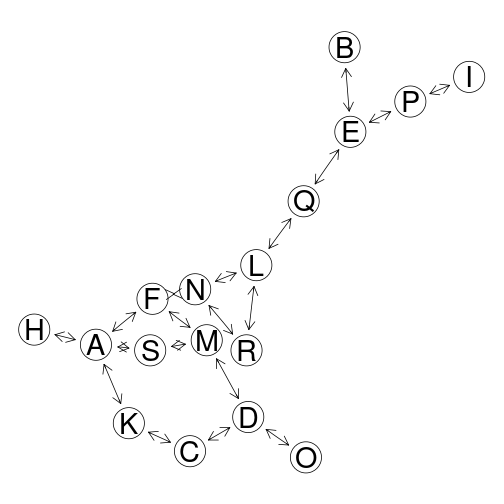
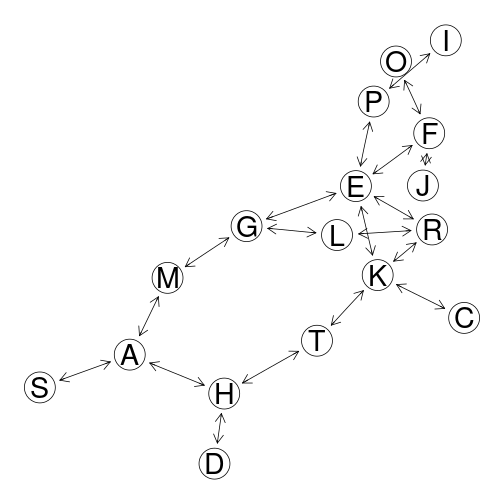
inst/

diff --git a/inst/Bioconductor/README.md b/inst/Bioconductor/README.md
@@ -4,6 +4,12 @@ This is the documentation example, based on Bioconductor 3.14.
 
 
 ```r
+library(sva)
+#> Loading required package: mgcv
+#> Loading required package: nlme
+#> This is mgcv 1.8-39. For overview type 'help("mgcv-package")'.
+#> Loading required package: genefilter
+#> Loading required package: BiocParallel
 library(bladderbatch)
 #> Loading required package: Biobase
 #> Loading required package: BiocGenerics
@@ -35,16 +41,40 @@ mod = model.matrix(~as.factor(cancer), data=pheno)
 
 # 1. parametric adjustment
 combat_edata1 = ComBat(dat=edata, batch=batch, mod=NULL, par.prior=TRUE, prior.plots=TRUE)
-#> Error in ComBat(dat = edata, batch = batch, mod = NULL, par.prior = TRUE, : could not find function "ComBat"
+#> Found5batches
+#> Adjusting for0covariate(s) or covariate level(s)
+#> Standardizing Data across genes
+#> Fitting L/S model and finding priors
+#> Finding parametric adjustments
+#> Adjusting the Data
+```
+
+![plot of chunk ComBat](figures/ComBat-1.png)
+
+```r
 
 # 2. non-parametric adjustment, mean-only version
 combat_edata2 = ComBat(dat=edata, batch=batch, mod=NULL, par.prior=FALSE, mean.only=TRUE)
-#> Error in ComBat(dat = edata, batch = batch, mod = NULL, par.prior = FALSE, : could not find function "ComBat"
+#> Using the 'mean only' version of ComBat
+#> Found5batches
+#> Adjusting for0covariate(s) or covariate level(s)
+#> Standardizing Data across genes
+#> Fitting L/S model and finding priors
+#> Finding nonparametric adjustments
+#> Adjusting the Data
 
 # 3. reference-batch version, with covariates
 combat_edata3 = ComBat(dat=edata, batch=batch, mod=mod, par.prior=TRUE, ref.batch=3, prior.plots=TRUE)
-#> Error in ComBat(dat = edata, batch = batch, mod = mod, par.prior = TRUE, : could not find function "ComBat"
+#> Using batch =3as a reference batch (this batch won't change)
+#> Found5batches
+#> Adjusting for2covariate(s) or covariate level(s)
+#> Standardizing Data across genes
+#> Fitting L/S model and finding priors
+#> Finding parametric adjustments
+#> Adjusting the Data
 ```
+
+![plot of chunk ComBat](figures/ComBat-2.png)
 
 ## Differential expression
 
@@ -109,13 +139,13 @@ estimated.pcor <- cor2pcor( cor(m.sim) )
 
 # A comparison of estimated and true values
 sum((true.pcor-estimated.pcor)^2)
-#> [1] 485.3661
+#> [1] 1074.933
 
 # A slightly better estimate ...
 estimated.pcor.2 <- ggm.estimate.pcor(m.sim)
-#> Estimating optimal shrinkage intensity lambda (correlation matrix): 0.4146
+#> Estimating optimal shrinkage intensity lambda (correlation matrix): 0.354
 sum((true.pcor-estimated.pcor.2)^2)
-#> [1] 9.409779
+#> [1] 9.716128
 
 ## ecoli data 
 data(ecoli)
@@ -410,17 +440,17 @@ num.nodes(gr)
 #> [1] 20
 edge.info(gr)
 #> $weight
-#>      A~S      A~K      A~F      A~H      B~E      C~D      C~K      D~O 
-#> -0.15336  0.26614 -0.39258  0.61266  0.64742  0.07149 -0.70853  0.44840 
-#>      D~M      E~P      E~Q      F~N      F~M      I~P      L~Q      L~R 
-#> -0.55883  0.35639 -0.46159  0.28920 -0.31394  0.75689 -0.17690 -0.36683 
-#>      L~N      M~S      N~R 
-#>  0.44811  0.42591 -0.45427 
+#>      A~S      A~H      A~M      C~K      D~H      E~K      E~G      E~P 
+#> -0.20723 -0.41069  0.59161  0.32481 -0.30811  0.21950  0.25362  0.29182 
+#>      E~F      E~R      F~J      F~O      G~L      G~M      H~T      I~P 
+#>  0.36377 -0.40016 -0.43237  0.65653 -0.13772  0.29308  0.63355 -0.35221 
+#>      K~R      K~T      L~R 
+#> -0.25565 -0.29900 -0.39885 
 #> 
 #> $dir
-#>    A~S    A~K    A~F    A~H    B~E    C~D    C~K    D~O    D~M    E~P    E~Q 
+#>    A~S    A~H    A~M    C~K    D~H    E~K    E~G    E~P    E~F    E~R    F~J 
 #> "none" "none" "none" "none" "none" "none" "none" "none" "none" "none" "none" 
-#>    F~N    F~M    I~P    L~Q    L~R    L~N    M~S    N~R 
+#>    F~O    G~L    G~M    H~T    I~P    K~R    K~T    L~R 
 #> "none" "none" "none" "none" "none" "none" "none" "none"
 gr2 <- network.make.graph( test.results, nlab, drop.singles=TRUE)
 gr2
@@ -431,17 +461,17 @@ num.nodes(gr2)
 #> [1] 17
 edge.info(gr2)
 #> $weight
-#>      A~S      A~K      A~F      A~H      B~E      C~D      C~K      D~O 
-#> -0.15336  0.26614 -0.39258  0.61266  0.64742  0.07149 -0.70853  0.44840 
-#>      D~M      E~P      E~Q      F~N      F~M      I~P      L~Q      L~R 
-#> -0.55883  0.35639 -0.46159  0.28920 -0.31394  0.75689 -0.17690 -0.36683 
-#>      L~N      M~S      N~R 
-#>  0.44811  0.42591 -0.45427 
+#>      A~S      A~H      A~M      C~K      D~H      E~K      E~G      E~P 
+#> -0.20723 -0.41069  0.59161  0.32481 -0.30811  0.21950  0.25362  0.29182 
+#>      E~F      E~R      F~J      F~O      G~L      G~M      H~T      I~P 
+#>  0.36377 -0.40016 -0.43237  0.65653 -0.13772  0.29308  0.63355 -0.35221 
+#>      K~R      K~T      L~R 
+#> -0.25565 -0.29900 -0.39885 
 #> 
 #> $dir
-#>    A~S    A~K    A~F    A~H    B~E    C~D    C~K    D~O    D~M    E~P    E~Q 
+#>    A~S    A~H    A~M    C~K    D~H    E~K    E~G    E~P    E~F    E~R    F~J 
 #> "none" "none" "none" "none" "none" "none" "none" "none" "none" "none" "none" 
-#>    F~N    F~M    I~P    L~Q    L~R    L~N    M~S    N~R 
+#>    F~O    G~L    G~M    H~T    I~P    K~R    K~T    L~R 
 #> "none" "none" "none" "none" "none" "none" "none" "none"
 
 # plot network
